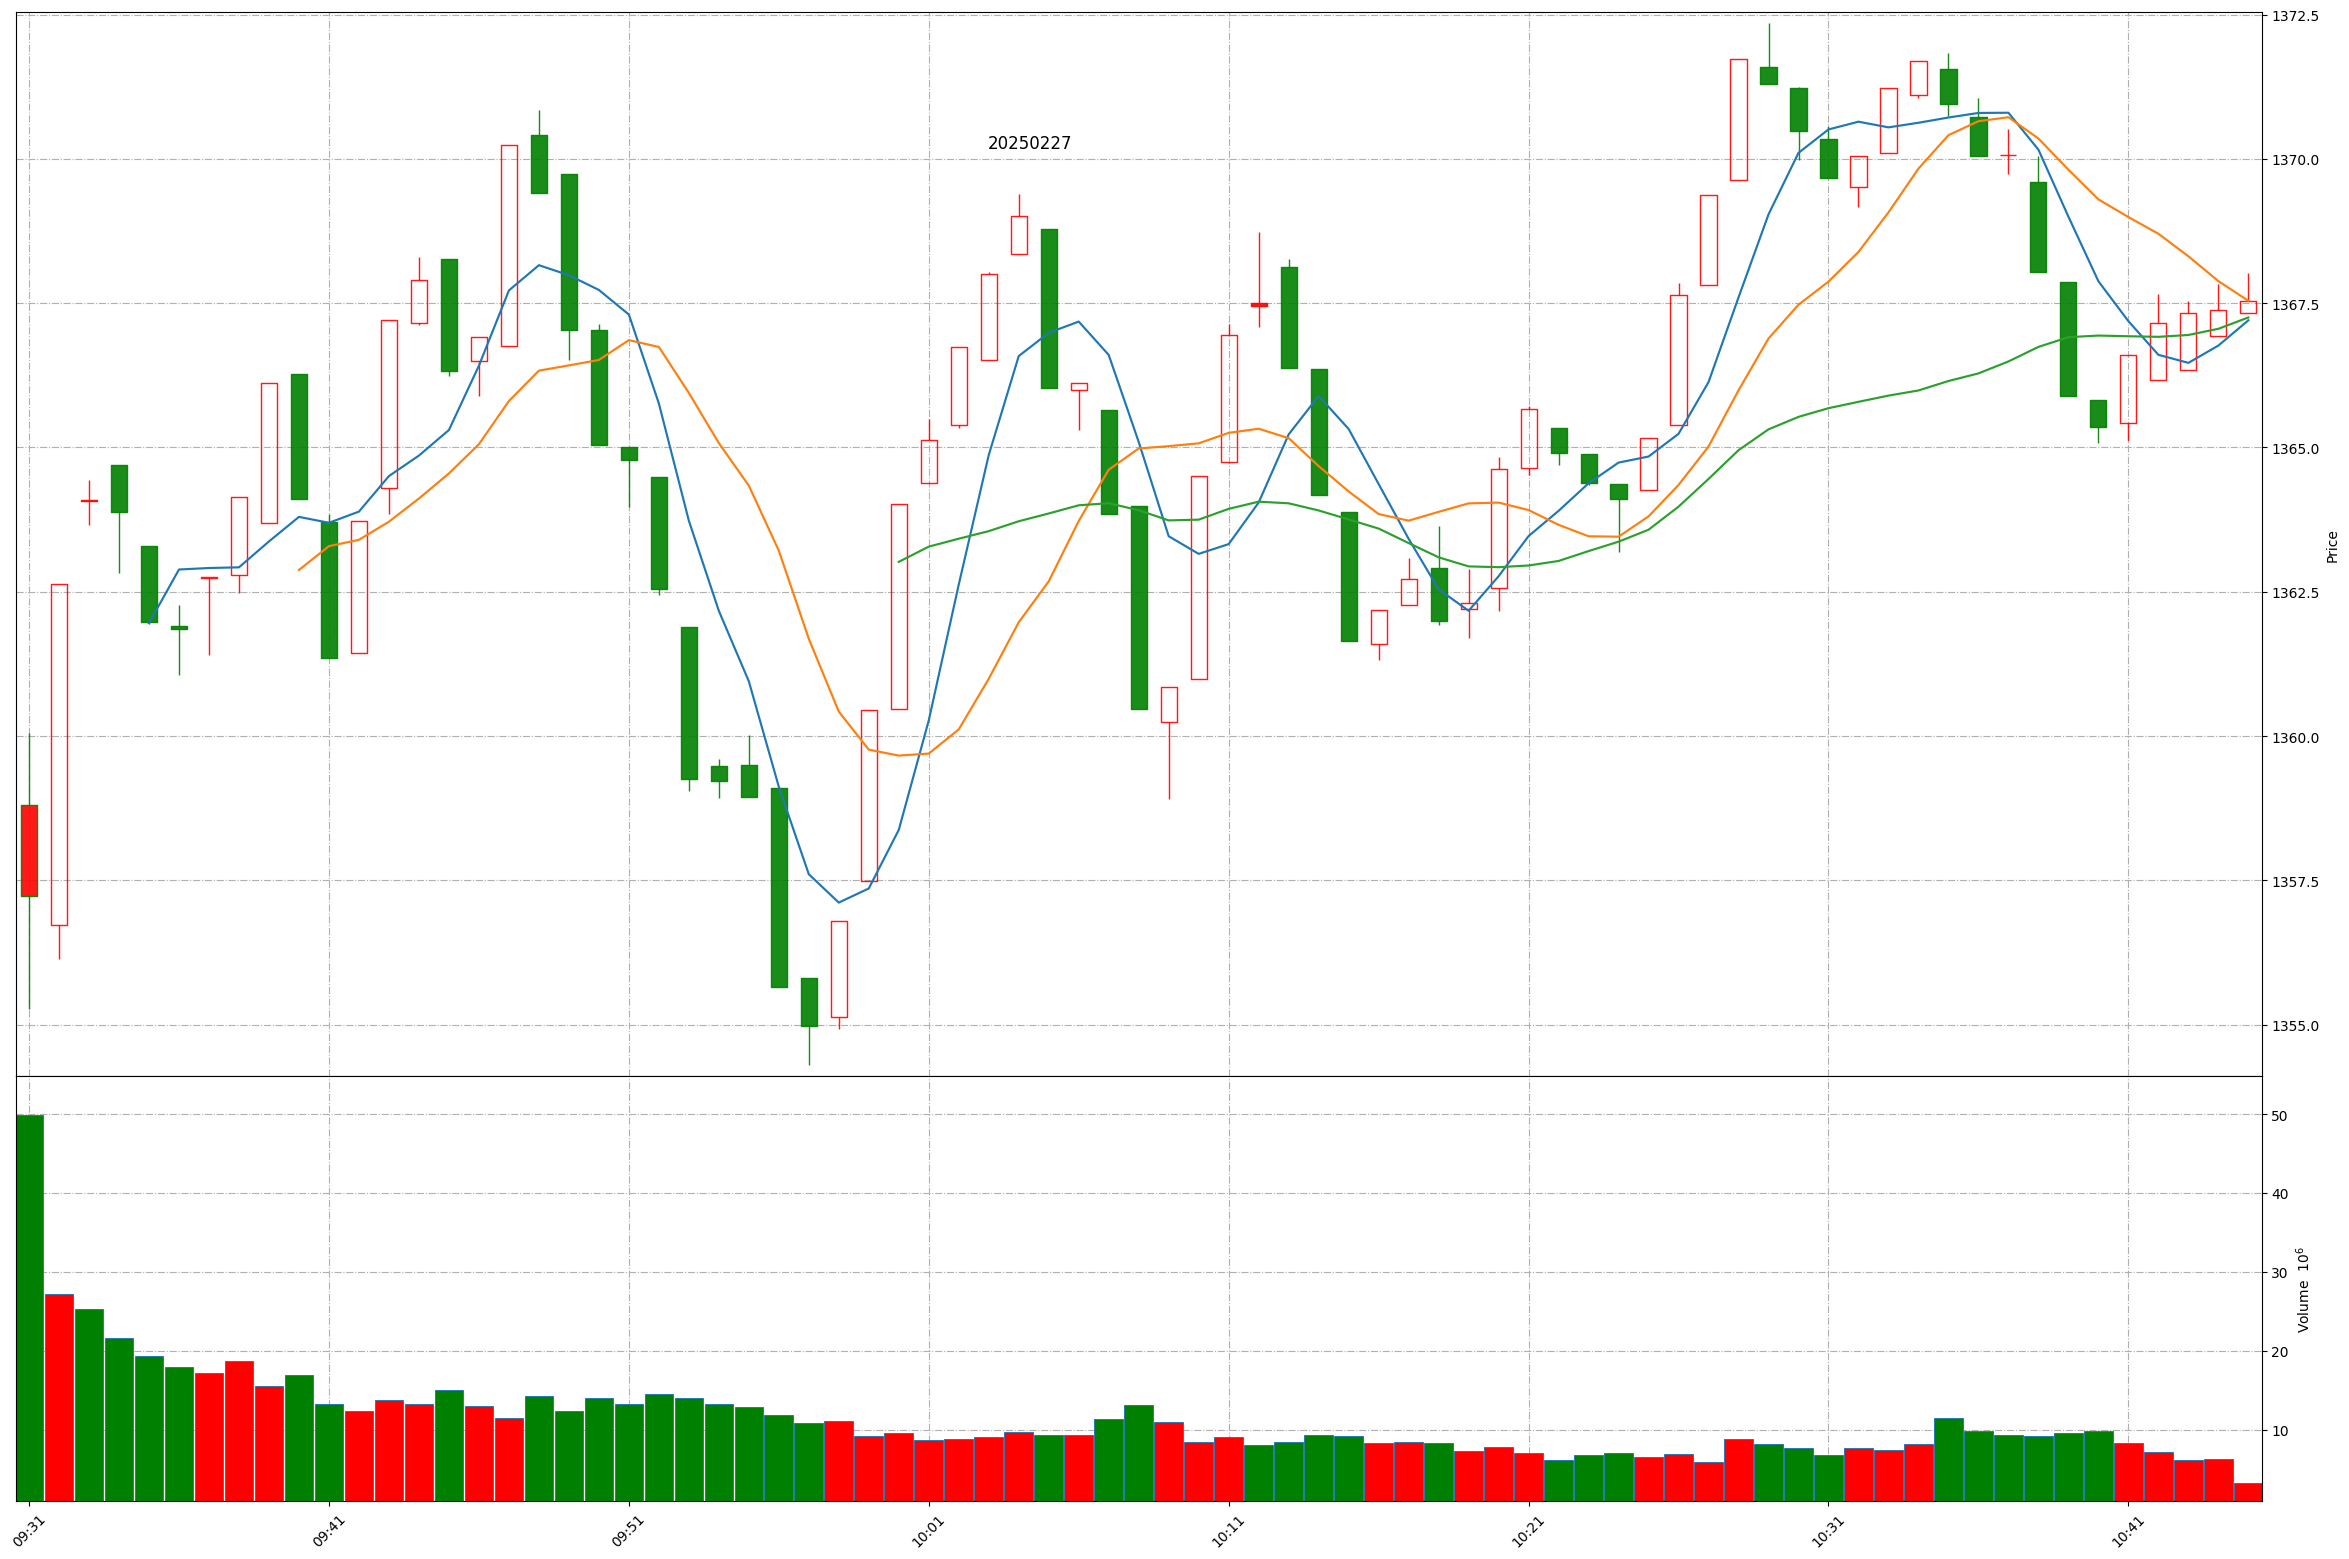
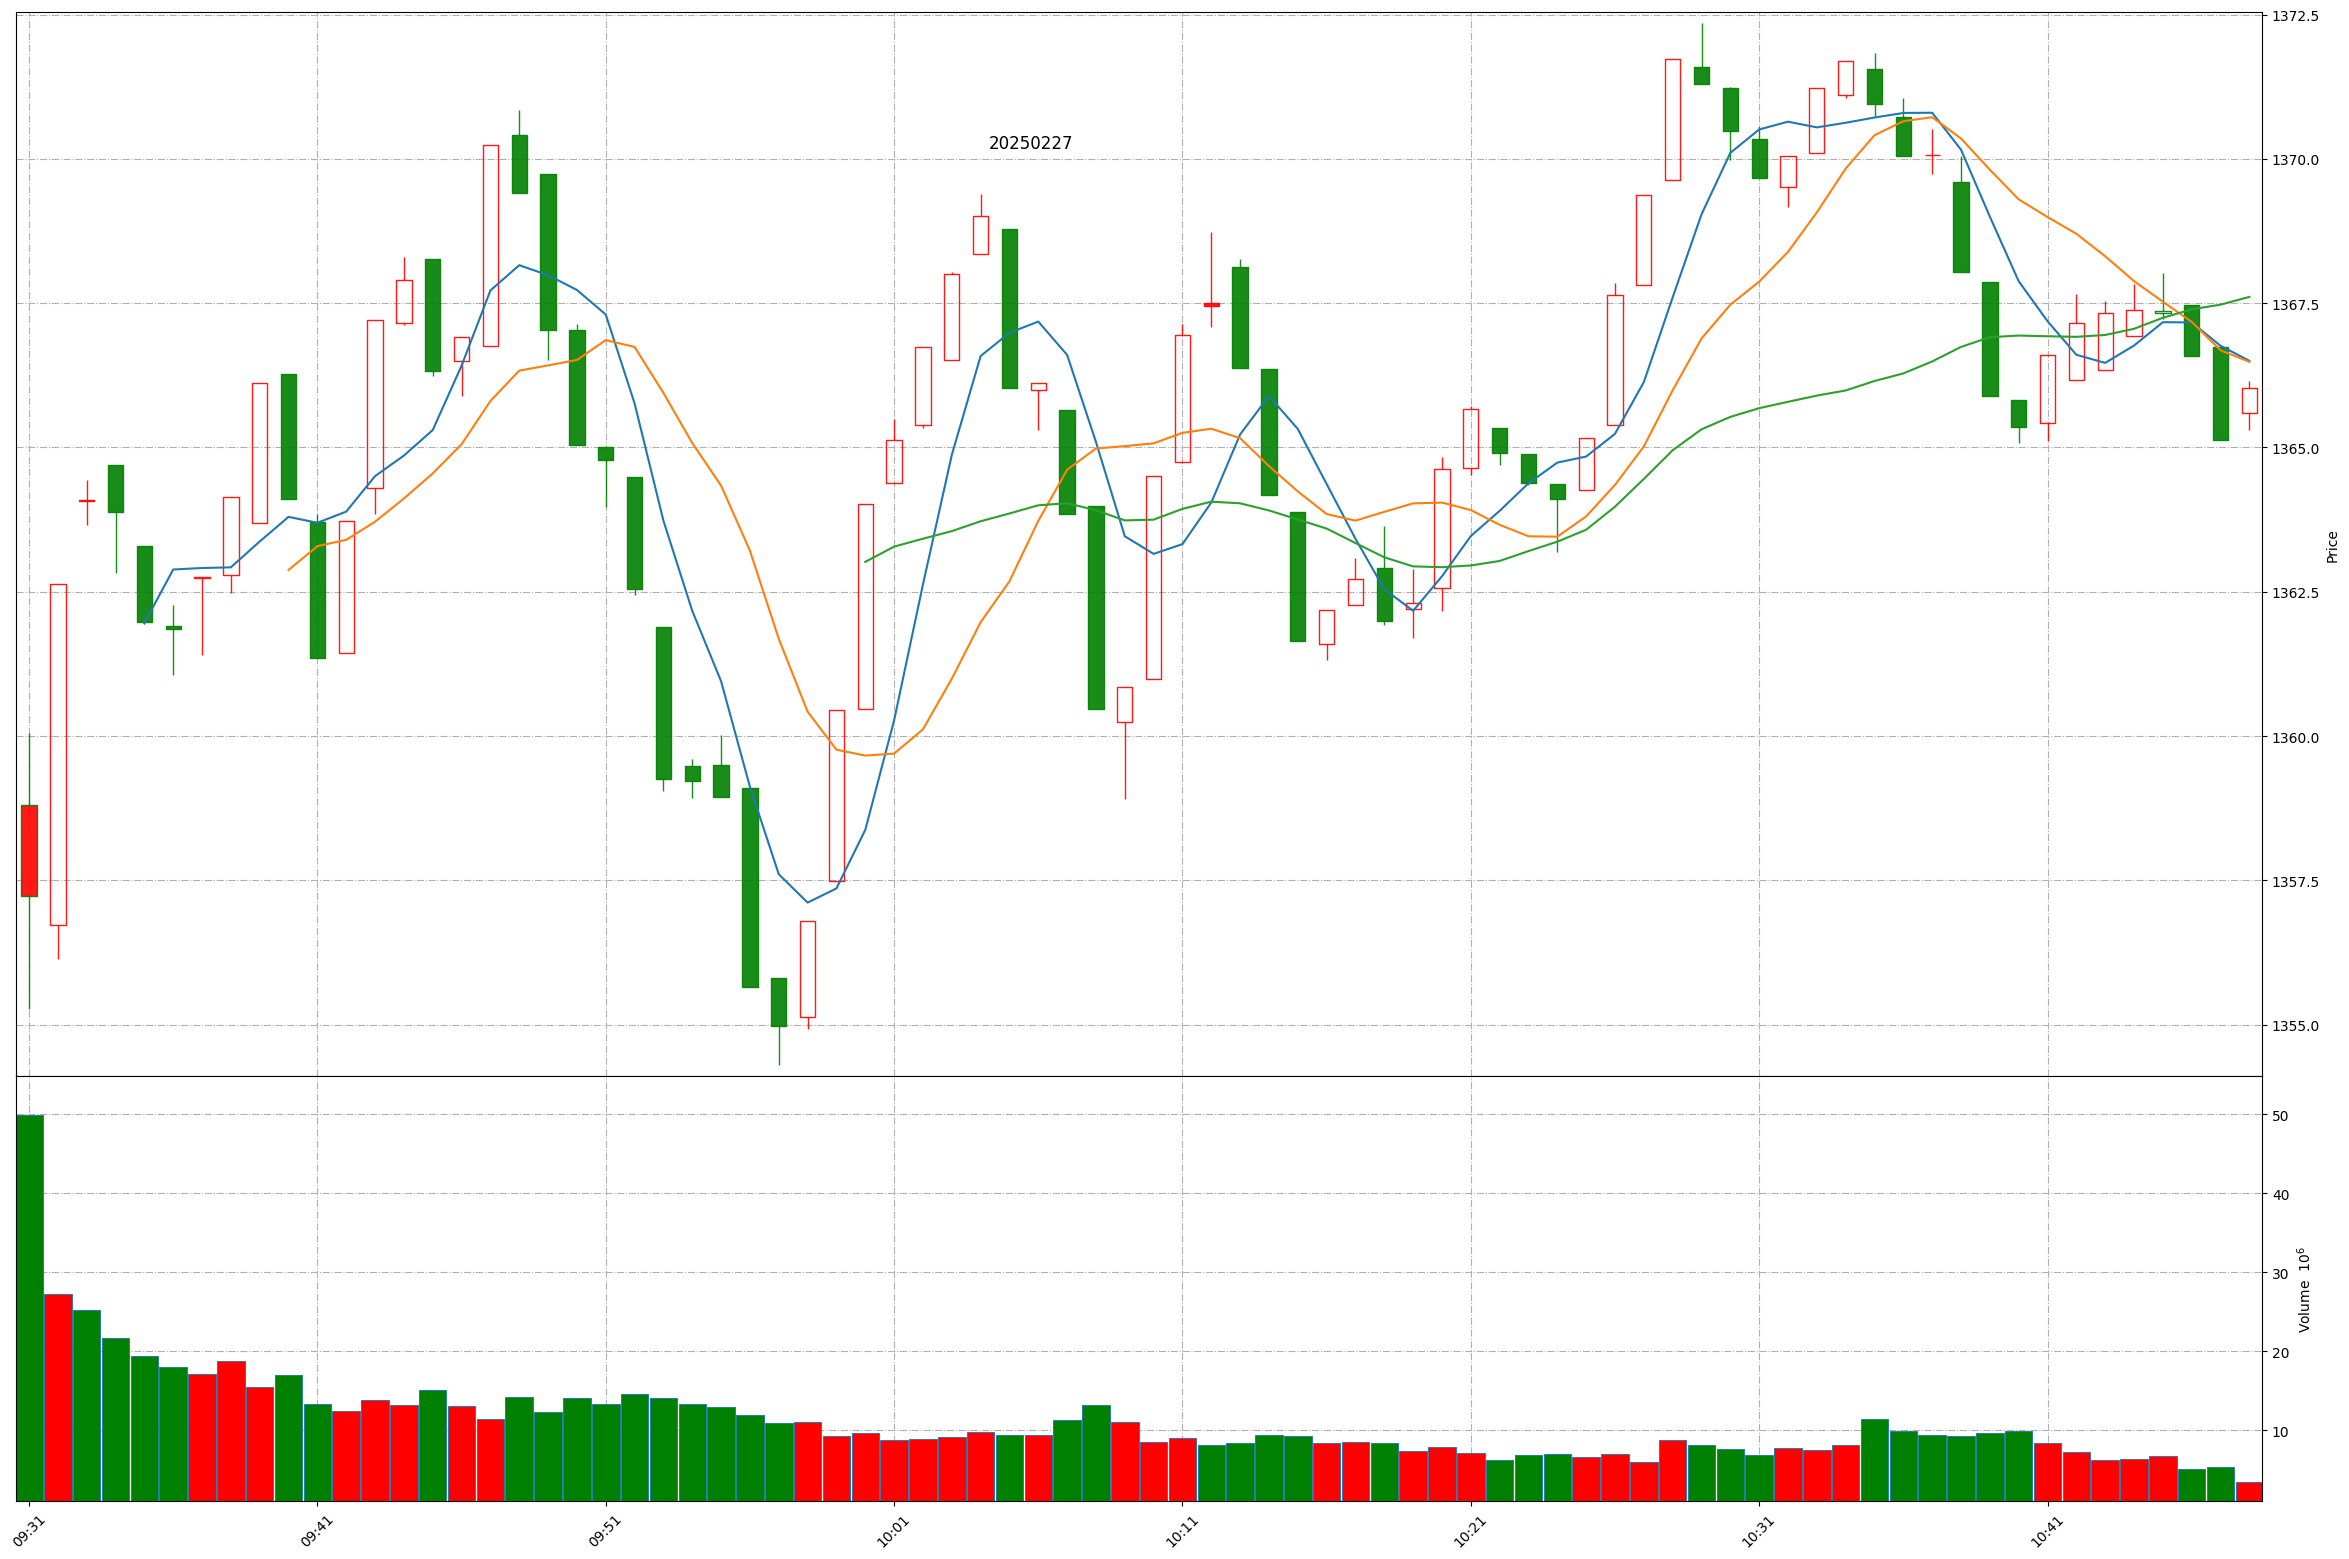
Github action update at 2025-02-27 10:47:54.

diff --git a/README.md b/README.md
@@ -1,11 +1,11 @@
 
 # Daily-A-share-market-quotes 每日 A 股指数（5min 更新）- 20250227
 
-### 上证指数 20250227 10:44
+### 上证指数 20250227 10:47
 ![](./fig/2025/2/20250227-sh000001.png)
 
-### 深证成指 20250227 10:44
+### 深证成指 20250227 10:47
 ![](./fig/2025/2/20250227-sz399001.png)
 
-### 北证50 20250227 10:44
+### 北证50 20250227 10:47
 ![](./fig/2025/2/20250227-bj899050.png)
